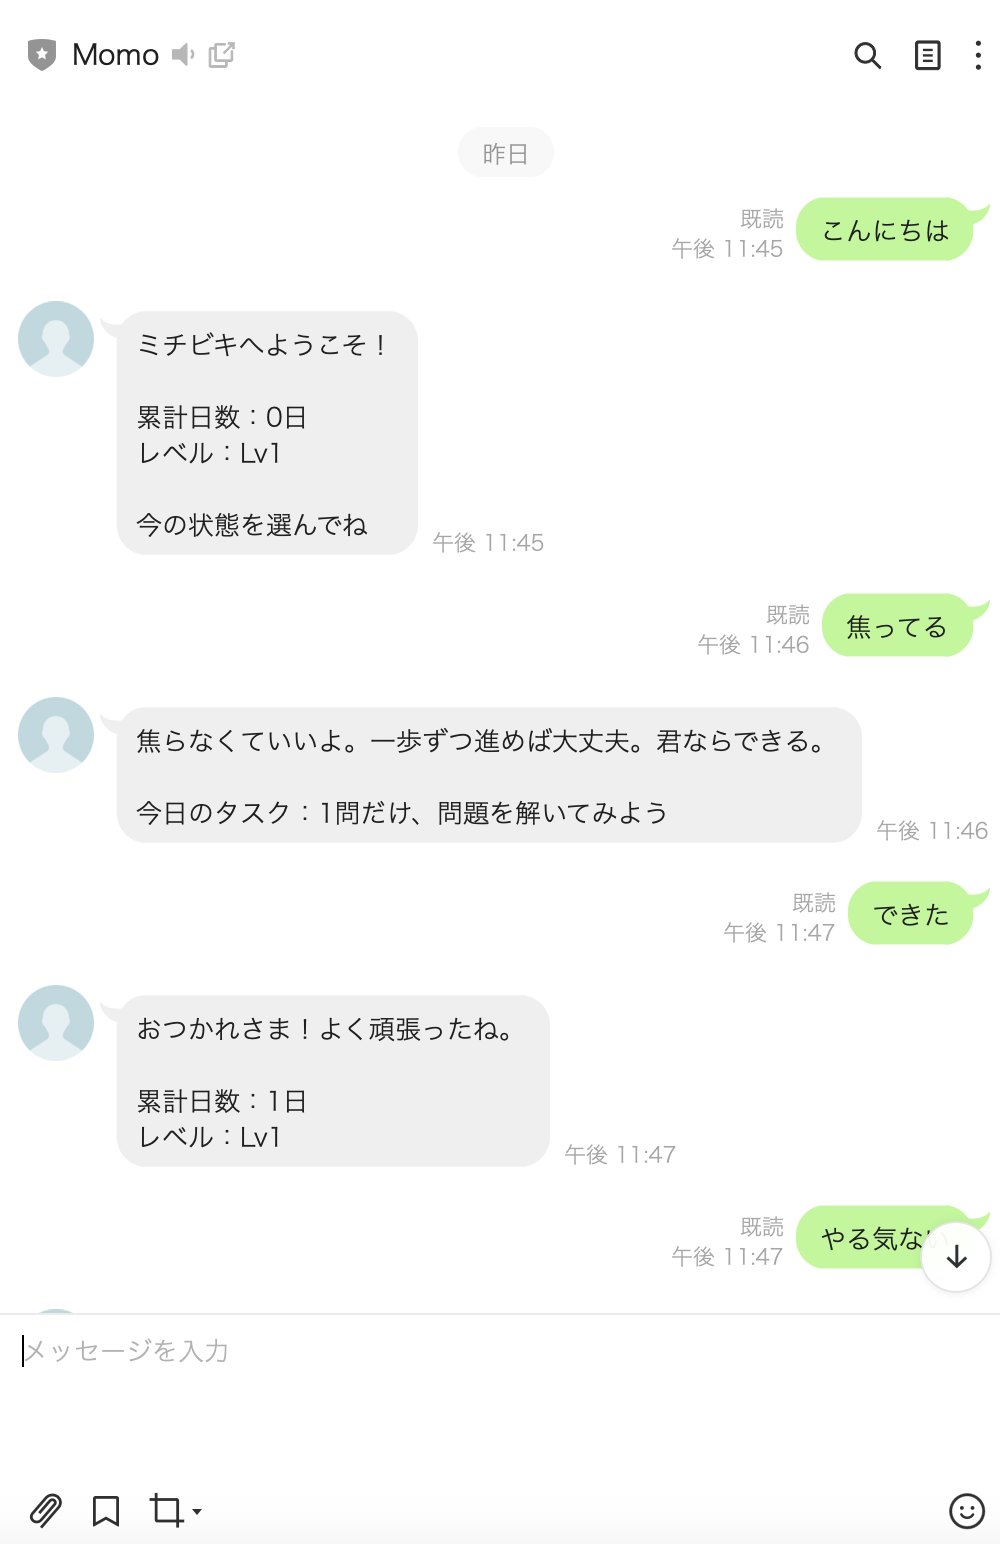
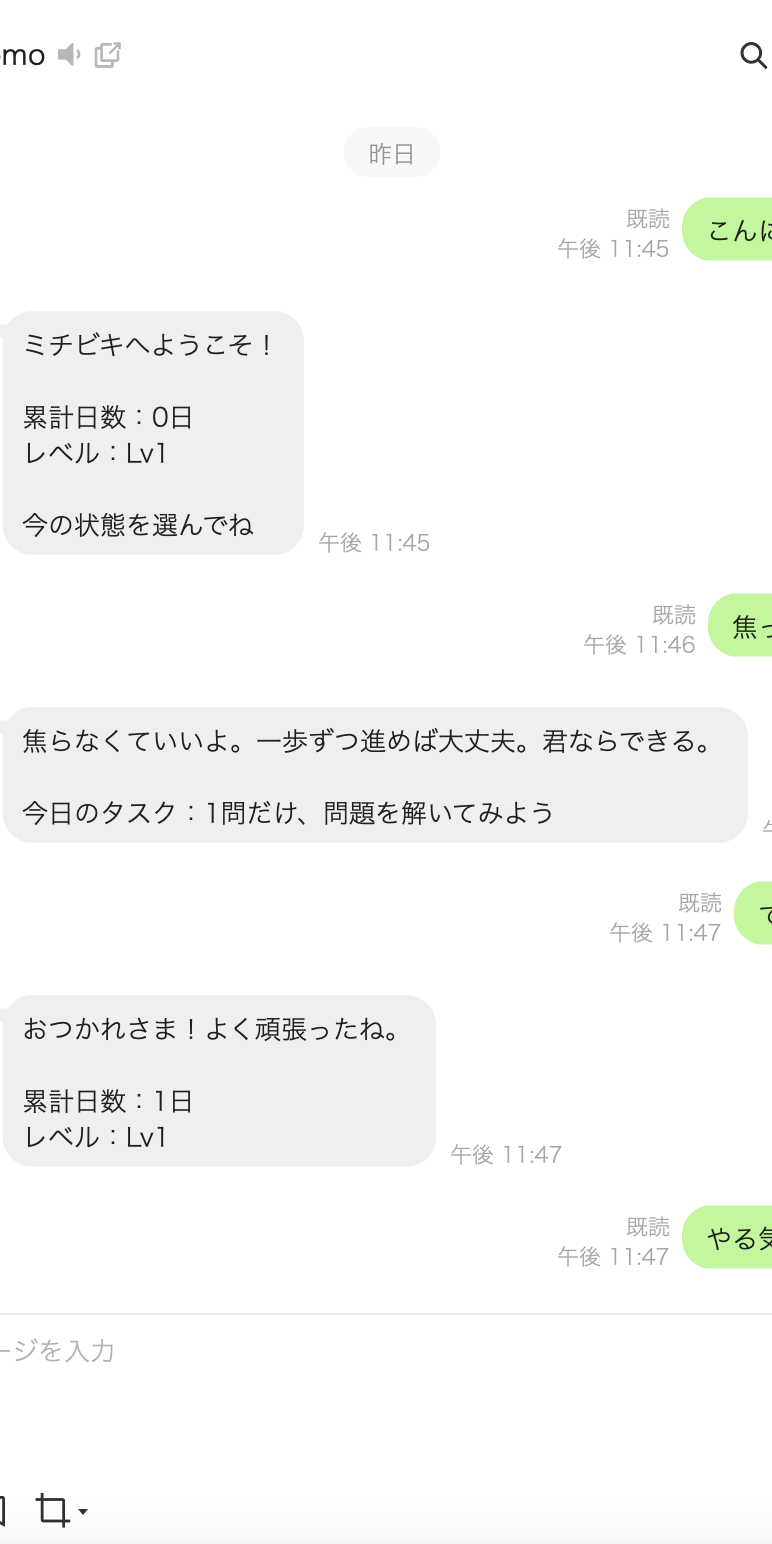
Fix ミチビキ phone mockup: crop image to 1:2 ratio, match frame aspect ratio exactly

diff --git a/index.html b/index.html
@@ -594,15 +594,15 @@
 
       <div class="pc" onclick="openModal(3)">
         <div class="pc-thumb" style="background:#e8f5e9;display:flex;align-items:center;justify-content:center;overflow:hidden">
-          <div style="height:90%;aspect-ratio:9/18;background:#1a1a1a;border-radius:20px;padding:5px;box-shadow:0 8px 32px rgba(0,0,0,.35);display:flex;flex-direction:column;gap:3px;flex-shrink:0">
-            <div style="height:6px;display:flex;align-items:center;justify-content:center;flex-shrink:0">
-              <div style="width:24px;height:3px;background:#444;border-radius:3px"></div>
+          <div style="height:88%;aspect-ratio:772/1544;background:#1a1a1a;border-radius:20px;padding:5px 4px;box-shadow:0 8px 32px rgba(0,0,0,.35);display:flex;flex-direction:column;gap:2px;flex-shrink:0">
+            <div style="height:7px;display:flex;align-items:center;justify-content:center;flex-shrink:0">
+              <div style="width:22px;height:3px;background:#444;border-radius:3px"></div>
             </div>
             <div style="flex:1;background:#fff;border-radius:13px;overflow:hidden;min-height:0">
-              <img src="img-michibiki.png" style="width:100%;height:100%;object-fit:cover;object-position:top 10%">
+              <img src="img-michibiki.png" style="width:100%;height:100%;object-fit:fill">
             </div>
-            <div style="height:6px;display:flex;align-items:center;justify-content:center;flex-shrink:0">
-              <div style="width:20px;height:3px;background:#444;border-radius:3px"></div>
+            <div style="height:7px;display:flex;align-items:center;justify-content:center;flex-shrink:0">
+              <div style="width:18px;height:3px;background:#444;border-radius:3px"></div>
             </div>
           </div>
         </div>
